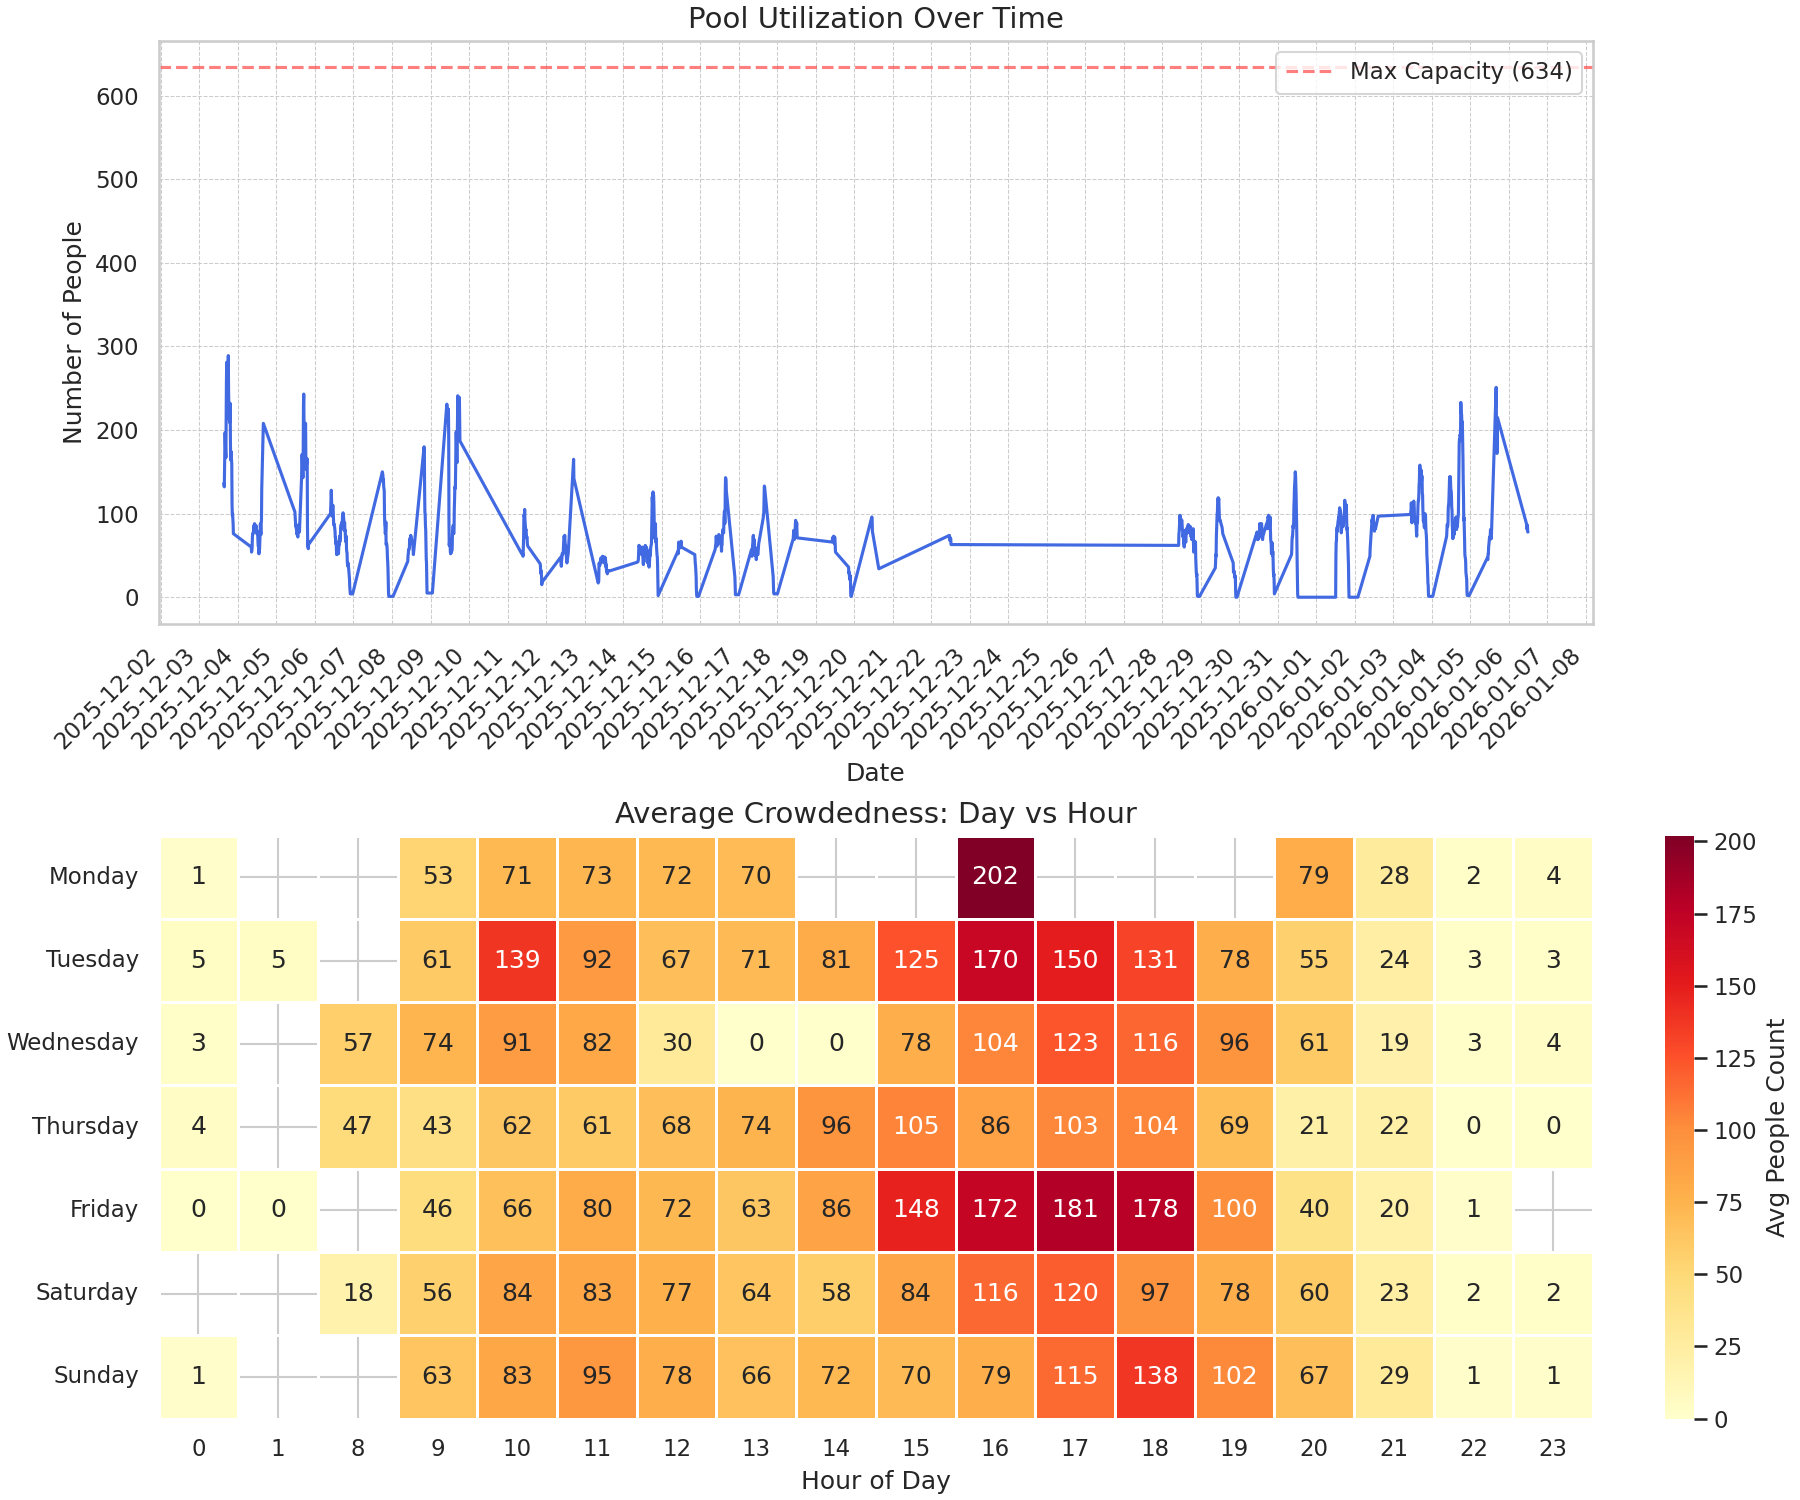
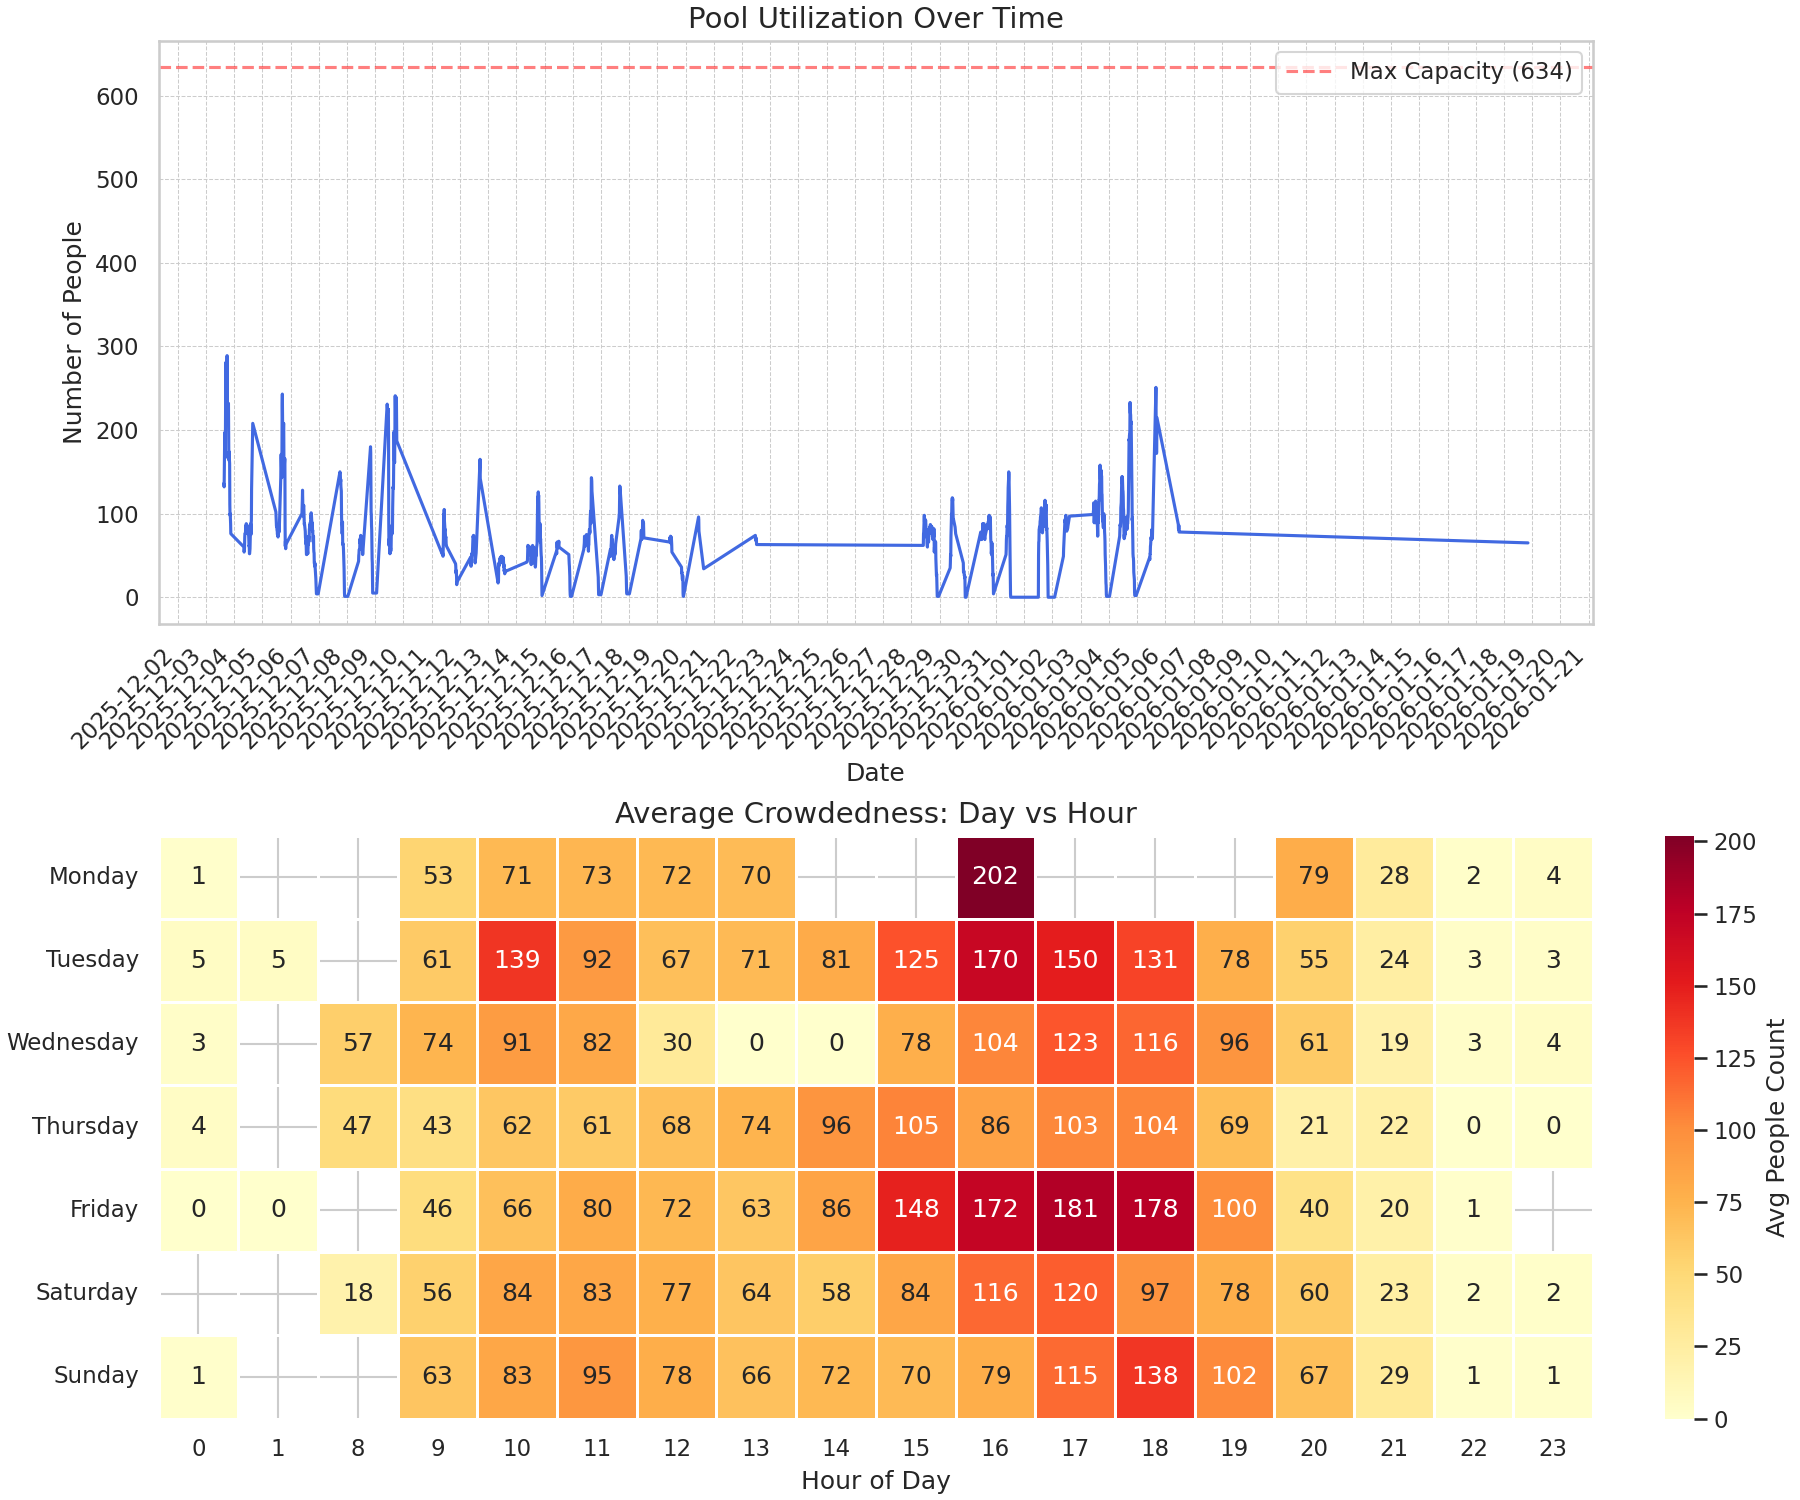
fix luzanky crawler: update to new website structure and add type hints

Changed region(s): [[0.1244, 0.2453, 0.8711, 0.3987], [0.0311, 0.4293, 0.8711, 0.5213]]

diff --git a/src/crawlers/luzanky.py b/src/crawlers/luzanky.py
@@ -18,21 +18,15 @@ class LuzankyCrawler(BaseCrawler):
 
         # Wait for the element
         wait = WebDriverWait(driver, 20)
-        wait.until(
-            EC.presence_of_element_located(
-                (By.CSS_SELECTOR, "#info-ticket-collapse .col.area.person")
-            )
-        )
+        wait.until(EC.presence_of_element_located((By.CSS_SELECTOR, ".info1 .box")))
 
-        elements = driver.find_elements(
-            By.CSS_SELECTOR, "#info-ticket-collapse .col.area.person"
-        )
+        elements = driver.find_elements(By.CSS_SELECTOR, ".info1 .box")
 
         for el in elements:
-            if "BAZÉNY" in el.text:
+            if "BAZÉNY" in el.text.upper():
                 try:
-                    time_span = el.find_element(By.CSS_SELECTOR, "span.time")
-                    return time_span.text
+                    value_el = el.find_element(By.TAG_NAME, "h5")
+                    return value_el.text.strip()
                 except Exception as e:
                     print(f"[{self.source_name}] Error extracting text: {e}")
                     continue

diff --git a/src/crawlers/base.py b/src/crawlers/base.py
@@ -10,19 +10,21 @@ from webdriver_manager.chrome import ChromeDriverManager
 class BaseCrawler(abc.ABC):
     def __init__(self, data_dir="data"):
         self.data_dir = os.path.join(
-            os.path.dirname(os.path.dirname(os.path.dirname(os.path.abspath(__file__)))),
+            os.path.dirname(
+                os.path.dirname(os.path.dirname(os.path.abspath(__file__)))
+            ),
             data_dir,
         )
         self.csv_file = os.path.join(self.data_dir, f"{self.source_name}.csv")
 
     @property
     @abc.abstractmethod
-    def source_name(self):
+    def source_name(self) -> str:
         pass
 
     @property
     @abc.abstractmethod
-    def url(self):
+    def url(self) -> str:
         pass
 
     def setup_driver(self):

diff --git a/tests/test_crawler.py b/tests/test_crawler.py
@@ -12,12 +12,12 @@ class TestLuzankyCrawler(unittest.TestCase):
 
         # Mock finding elements
         mock_element = MagicMock()
-        mock_element.text = "BAZÉNY"
+        mock_element.text = "BAZÉNY\n10/50"
 
-        mock_time_span = MagicMock()
-        mock_time_span.text = "10/50"
+        mock_value_el = MagicMock()
+        mock_value_el.text = "10/50"
 
-        mock_element.find_element.return_value = mock_time_span
+        mock_element.find_element.return_value = mock_value_el
         mock_driver.find_elements.return_value = [mock_element]
 
         crawler = LuzankyCrawler()
